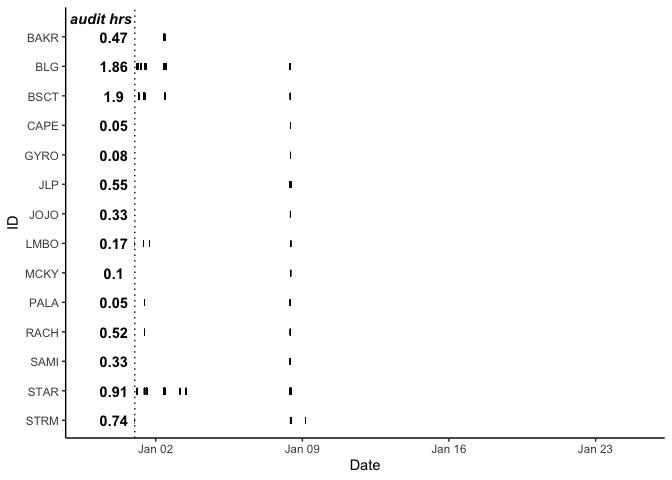
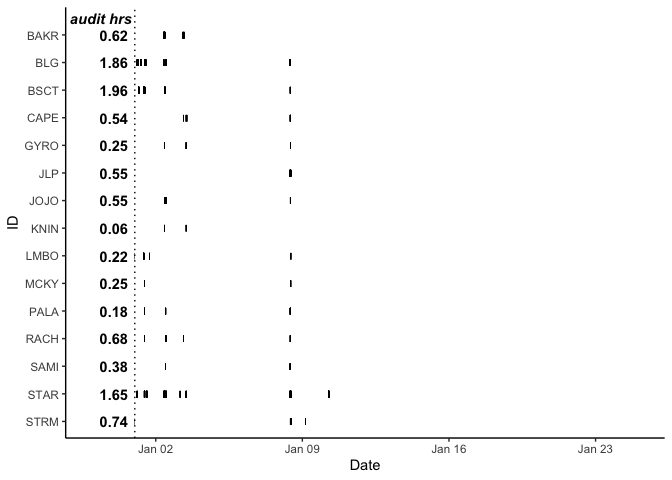
update readme

diff --git a/README.md b/README.md
@@ -1,9 +1,9 @@
 # Hyena cc23 labeling status
-Last updated on January 16, 2024
+Last updated on January 21, 2024
 
 ### Current state
 
-There are 1.56 hours of calls in 8.06 hours of total audit time.
+There are 2.04 hours of calls in 10.49 hours of total audit time.
 
 ### Labels by date and id
 
@@ -15,15 +15,15 @@ There are 1.56 hours of calls in 8.06 hours of total audit time.
 
 | call | total_count | foc | non | unf | total_duration | total_inds | total_audits |
 |:-----|------------:|----:|----:|----:|---------------:|-----------:|-------------:|
-| whp  |        1110 | 466 | 619 |  22 |        1616.01 |         14 |           60 |
-| grn  |         906 | 633 | 220 |  53 |        1311.24 |         11 |           58 |
-| gig  |         117 |  18 |  80 |  13 |         140.23 |          7 |           21 |
-| rum  |          87 |  65 |  13 |   8 |         148.27 |          7 |           20 |
-| sql  |         188 |  29 | 135 |  21 |         209.69 |          7 |           21 |
-| grl  |           6 |   2 |   2 |   1 |           4.24 |          1 |            1 |
-| fed  |          63 |  63 |   0 |   0 |        1103.34 |          4 |            5 |
-| str  |         258 |   1 | 256 |   1 |         423.01 |          5 |           25 |
-| oth  |         146 |  33 |  88 |  18 |         181.85 |         10 |           35 |
+| whp  |        1397 | 593 | 778 |  22 |        2086.84 |         15 |           87 |
+| grn  |        1188 | 860 | 267 |  58 |        1638.03 |         15 |           73 |
+| gig  |         147 |  23 | 103 |  15 |         169.69 |          9 |           29 |
+| rum  |         115 |  81 |  24 |   9 |         190.71 |          6 |           25 |
+| sql  |         238 |  33 | 178 |  24 |         261.00 |          9 |           26 |
+| grl  |           8 |   2 |   4 |   1 |           5.03 |          2 |            3 |
+| fed  |         101 | 101 |   0 |   0 |        1869.07 |          5 |            6 |
+| str  |         282 |   1 | 279 |   1 |         450.33 |          7 |           30 |
+| oth  |         180 |  40 | 112 |  21 |         209.19 |         14 |           45 |
 | syn  |           1 |   0 |   0 |   0 |           0.09 |          1 |            1 |
 
 ### Start and end of audit issues
@@ -35,14 +35,17 @@ These audits have issues with start and end of audit:
 | 2     | too many soa and eoa         |
 | 21    | too many soa and eoa         |
 | 25    | too many soa and eoa         |
+| 188   | audit not bounded by soa/eoa |
 | 7     | too many soa and eoa         |
-| 50    | audit not bounded by soa/eoa |
 | 9     | audit not bounded by soa/eoa |
-| 63    | audit not bounded by soa/eoa |
 | 66    | audit not bounded by soa/eoa |
+| 60    | audit not bounded by soa/eoa |
+| 64    | audit not bounded by soa/eoa |
 | 34    | audit not bounded by soa/eoa |
 | 19    | audit not bounded by soa/eoa |
 | 5     | too many soa and eoa         |
+| 50    | audit not bounded by soa/eoa |
+| 63    | audit not bounded by soa/eoa |
 | 40    | audit not bounded by soa/eoa |
 | 42    | audit not bounded by soa/eoa |
 | 100   | audit not bounded by soa/eoa |
